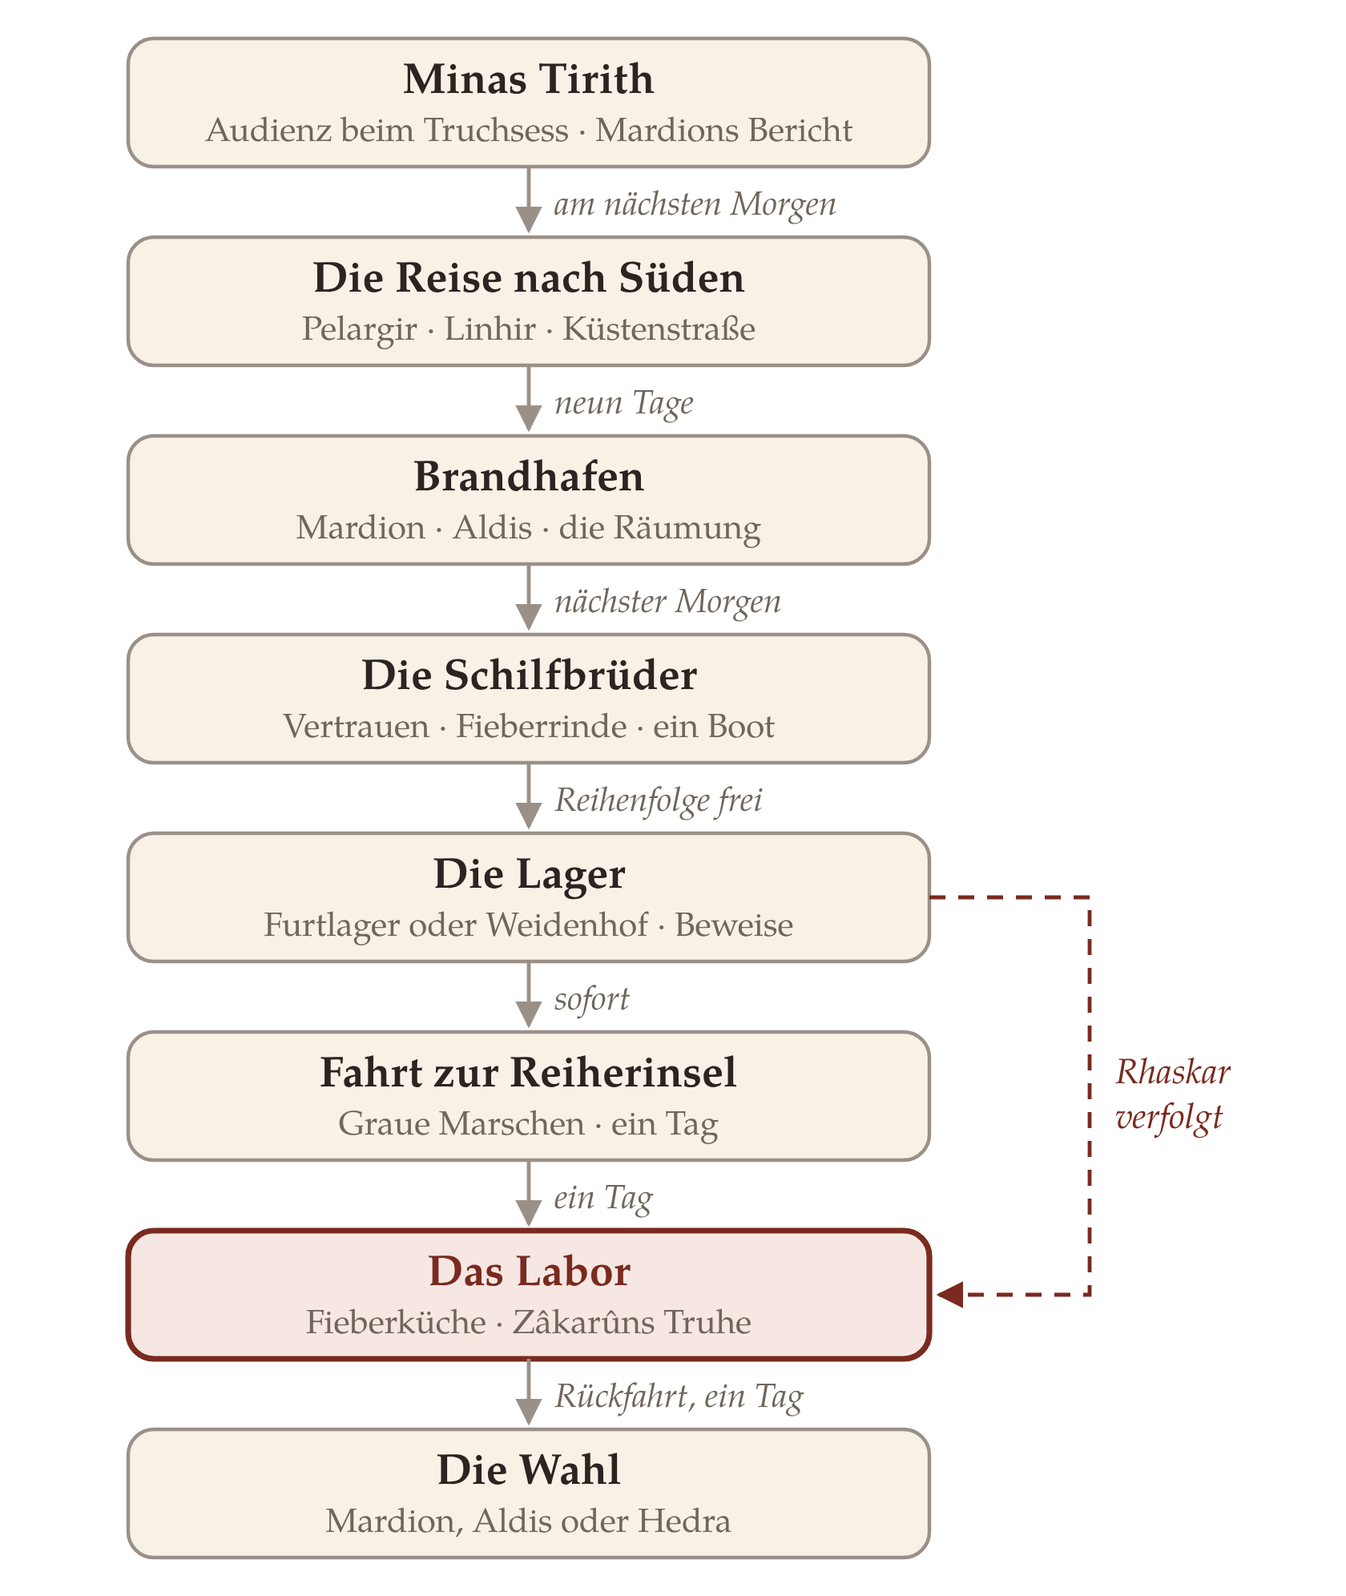
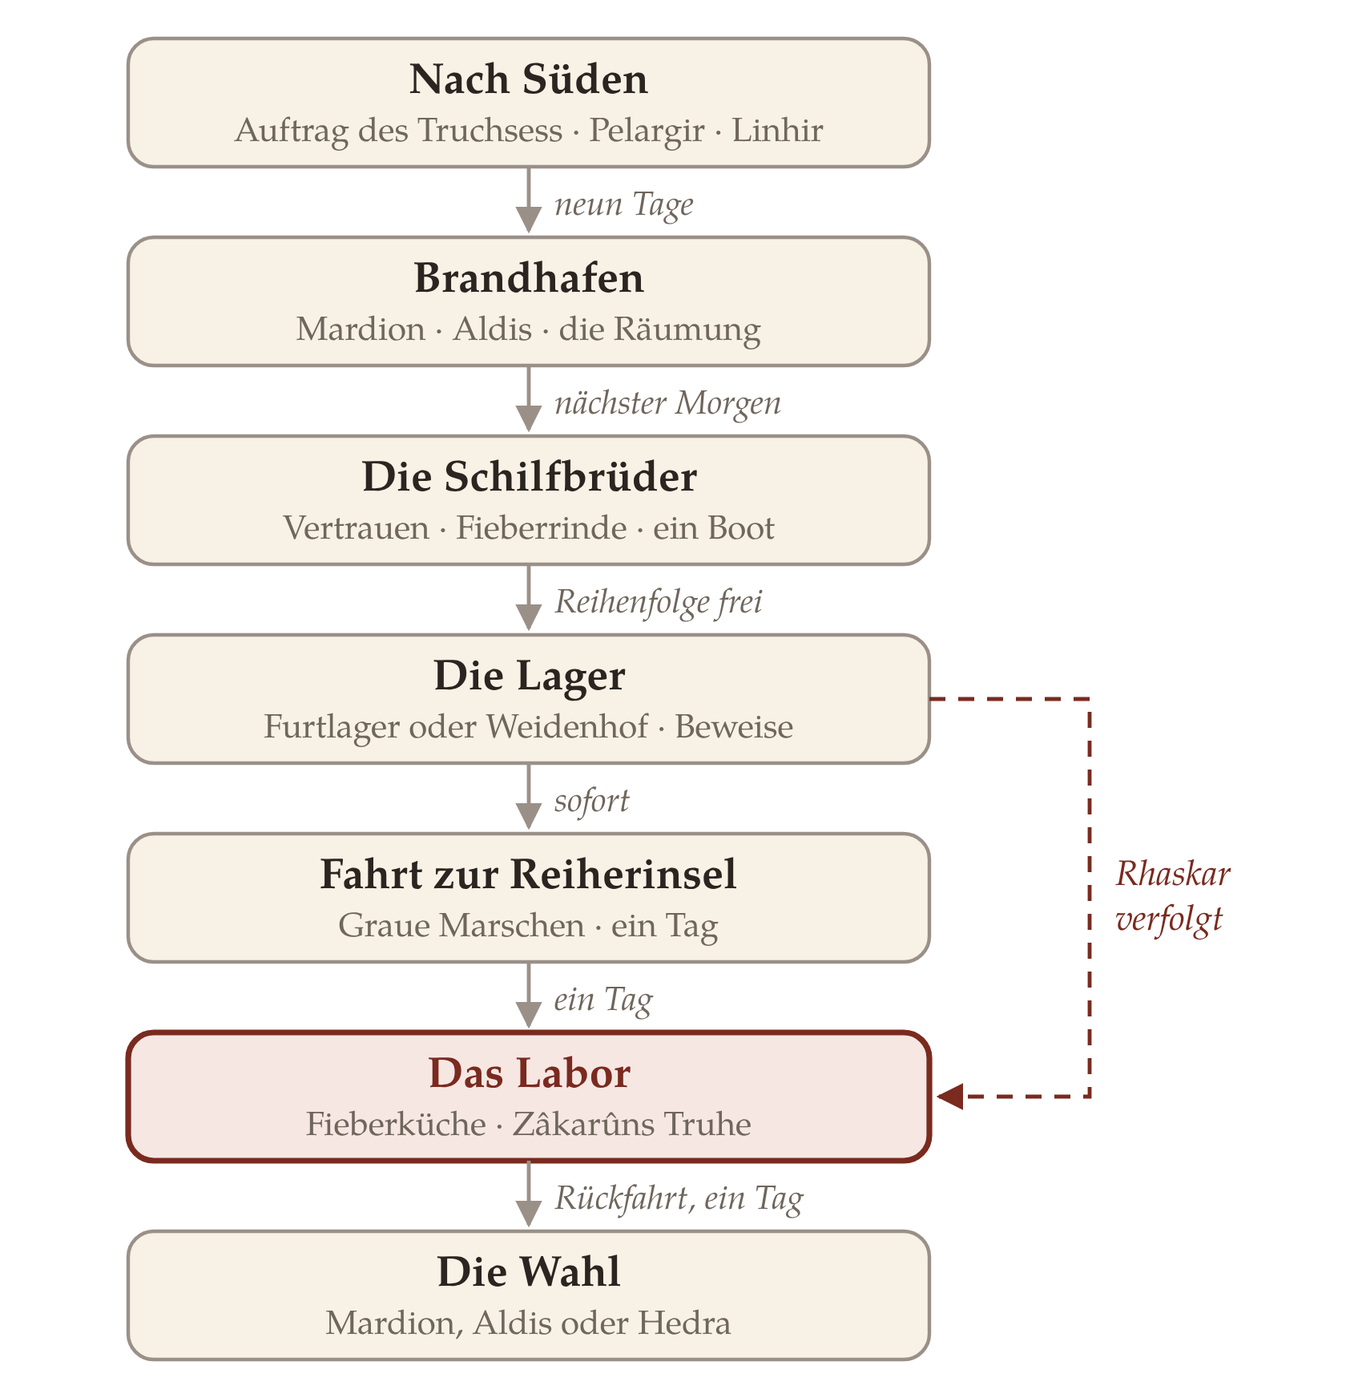
Kürzerer Einstieg: Auftrag in wenigen Sätzen, dann die Reise
Teil 1 „Nach Süden“ ersetzt Minas Tirith und die Reise: knappe
Zusammenfassung des Auftrags (Auftrag, warum Fremde, Lohn), Mardions
Bericht als Handout, dann Route und Reiseereignisse. Gerüchte, Audienz
und Ratsherr Galdrion entfallen. Teile 3–6 werden 2–5; Verweise,
Inhalt, Kalender, NSC-Tabelle und Routendiagramm angepasst.

Claude-Session: https://claude.ai/code/session_01QUw3fjkJSS1ByRS6nJY8XS

diff --git a/tools/maps.py b/tools/maps.py
@@ -375,15 +375,14 @@ def route():
     font = "font-family=\"TeX Gyre Pagella\""
     grey, line, red, ink = "#6f665c", "#9a9088", "#7a2a1f", "#2b2420"
     bw, bh, gap, x0, top = 250, 40, 22, 40, 12
-    stages = [("Minas Tirith", "Audienz beim Truchsess · Mardions Bericht"),
-              ("Die Reise nach Süden", "Pelargir · Linhir · Küstenstraße"),
+    stages = [("Nach Süden", "Auftrag des Truchsess · Pelargir · Linhir"),
               ("Brandhafen", "Mardion · Aldis · die Räumung"),
               ("Die Schilfbrüder", "Vertrauen · Fieberrinde · ein Boot"),
               ("Die Lager", "Furtlager oder Weidenhof · Beweise"),
               ("Fahrt zur Reiherinsel", "Graue Marschen · ein Tag"),
               ("Das Labor", "Fieberküche · Zâkarûns Truhe"),
               ("Die Wahl", "Mardion, Aldis oder Hedra")]
-    legs = ["am nächsten Morgen", "neun Tage", "nächster Morgen", "Reihenfolge frei", "sofort", "ein Tag", "Rückfahrt, ein Tag"]
+    legs = ["neun Tage", "nächster Morgen", "Reihenfolge frei", "sofort", "ein Tag", "Rückfahrt, ein Tag"]
     Hs = top * 2 + len(stages) * bh + (len(stages) - 1) * gap
     Ws = 420
     cx = x0 + bw / 2
@@ -404,7 +403,7 @@ def route():
             out.append(f'<path d="M{cx} {y + bh} V{y + bh + gap - 2}" stroke="{line}" stroke-width="1.2" marker-end="url(#a)"/>')
             out.append(f'<text x="{cx + 8}" y="{y + bh + gap / 2 + 4}" {font} font-style="italic" font-size="10.5" fill="{grey}">{legs[i]}</text>')
     # Verfolgung: von den Lagern zur Insel
-    y3, y5 = ys[4] + bh / 2, ys[6] + bh / 2
+    y3, y5 = ys[3] + bh / 2, ys[5] + bh / 2
     px = x0 + bw + 50
     out.append(f'<path d="M{x0 + bw} {y3} H{px} V{y5} H{x0 + bw + 3}" fill="none" stroke="{red}" stroke-width="1.2" stroke-dasharray="5 4" marker-end="url(#r)"/>')
     out.append(f'<text x="{px + 8}" y="{(y3 + y5) / 2 - 4}" {font} font-style="italic" font-size="11" fill="{red}">Rhaskar</text>')

diff --git a/src/graufieber.md b/src/graufieber.md
@@ -2,7 +2,7 @@
 
 Im Spätsommer TA 2979 geht in Brandhafen, einem kleinen Fischerdorf an der Küste von Belfalas, und in den Dörfern und Höfen ringsum ein Fieber um, gegen das kein Kraut hilft. Mit zwei Schiffen aus Pelargir kommen „Helfer“ des Handelshauses Saerlond. Sie bringen Korn als Gabe, einen beruhigenden Trank und bewaffnete Wachen, und bald gehören ihnen Hafen und Furt. In Minas Tirith hört man davon, und der Truchsess schickt Fremde, die niemand am Hof kennt: die Helden. Nach einer Reise nach Süden treffen sie in Brandhafen seinen Hauptmann Mardion. Sie finden heraus, dass hinter dem Haus ein Schwarzer Númenórer aus Umbar steht, der die Seuche selbst gesät hat, und zerstören seine Fieberküche auf der Reiherinsel. Am Ende halten sie das einzige Gegenmittel in der Hand, und drei Parteien wollen es.
 
-**Schauplatz:** Minas Tirith, die Straße nach Süden und vor allem Brandhafen an der Küste von Belfalas zwischen Dol Amroth und Linhir, mit den Grauen Marschen östlich davon.
+**Schauplatz:** Die Straße von Minas Tirith nach Süden und vor allem Brandhafen an der Küste von Belfalas zwischen Dol Amroth und Linhir, mit den Grauen Marschen östlich davon.
 
 **Stimmung:** Fieberschwüle, Salzwind, Misstrauen, Freundlichkeit als Maske. Es gibt keinen offenen Krieg, sondern Gift, Lügen und Schmuggel. Das Ende ist eine Wahl ohne saubere Lösung.
 
@@ -14,26 +14,25 @@ Im Spätsommer TA 2979 geht in Brandhafen, einem kleinen Fischerdorf an der Küs
 \noindent\begin{minipage}[t]{0.53\linewidth}\vspace{0pt}
 ```
 
-1. [**Minas Tirith**](#teil1) – Audienz beim Truchsess.
-2. [**Die Reise nach Süden**](#teil2) – neun Tage bis an die Küste.
-3. [**Brandhafen**](#teil3) – Mardion, Aldis, die Räumung.
-4. [**Die Schilfbrüder**](#teil4) – Vertrauen, Fieberrinde, ein Boot.
-5. [**Die Lager**](#teil5) – Beweise, verkleidet oder heimlich.
-6. [**Fahrt zur Reiherinsel**](#teil6) – ein Tag durch die Marschen.
-7. [**Das Labor**](#hoehepunkt) – Fieberküche und Zâkarûns Truhe.
-8. [**Die Wahl**](#wahl) – Mardion, Aldis oder Hedra.
+1. [**Nach Süden**](#teil1) – der Auftrag des Truchsess, neun Tage Reise.
+2. [**Brandhafen**](#teil2) – Mardion, Aldis, die Räumung.
+3. [**Die Schilfbrüder**](#teil3) – Vertrauen, Fieberrinde, ein Boot.
+4. [**Die Lager**](#teil4) – Beweise, verkleidet oder heimlich.
+5. [**Fahrt zur Reiherinsel**](#teil5) – ein Tag durch die Marschen.
+6. [**Das Labor**](#hoehepunkt) – Fieberküche und Zâkarûns Truhe.
+7. [**Die Wahl**](#wahl) – Mardion, Aldis oder Hedra.
 
 ```{=latex}
 \end{minipage}\hfill\begin{minipage}[t]{0.43\linewidth}\vspace{0pt}
 ```
 
-![Der Weg der Helden. Teil 4 und 5 sind in beliebiger Reihenfolge spielbar; gestrichelt: Rhaskars Verfolgung.](assets/route-de.png){.route}
+![Der Weg der Helden. Teil 3 und 4 sind in beliebiger Reihenfolge spielbar; gestrichelt: Rhaskars Verfolgung.](assets/route-de.png){.route}
 
 ```{=latex}
 \end{minipage}\par
 ```
 
-Teil 4 und 5 sind offen. Die Gruppe wählt Reihenfolge und Mittel. Zur Reiherinsel braucht sie zweierlei: den Ort (von Hedra, von Thalmir oder aus dem Kornbuch) und ein Boot (von Hedra oder von Tobbe).
+Teil 3 und 4 sind offen. Die Gruppe wählt Reihenfolge und Mittel. Zur Reiherinsel braucht sie zweierlei: den Ort (von Hedra, von Thalmir oder aus dem Kornbuch) und ein Boot (von Hedra oder von Tobbe).
 
 ## Hintergrund: Das Geschenk aus Umbar {#hintergrund .nonotes}
 
@@ -81,8 +80,7 @@ Hauptmann Mardion dient Ecthelion II., dem Truchsess von Gondor, als Auge an den
 
 | Tag | Datum | Wo | Was geschieht |
 |---|---|---|---|
-| 1 | 22. Wedmath | Minas Tirith | Kunde aus dem Süden, Audienz beim Truchsess. |
-| 2–9 | 23.–30. Wedmath | Lossarnach, Pelargir, Linhir | Die Reise nach Süden. |
+| 1–9 | 22.–30. Wedmath | Minas Tirith bis Linhir | Aufbruch und Reise nach Süden. |
 | 10 | 1. Halimath | Brandhafen | Ankunft an der Furt, Treffen mit Mardion, Aldis' Spital. Nachts: die Räumung. |
 | 11 | 2. Halimath | Rand der Marschen | Die Schilfbrüder, zwei Aufträge. |
 | 12 | 3. Halimath | Furtlager oder Weidenhof | Beweise. Danach nimmt Rhaskar die Verfolgung auf. |
@@ -92,27 +90,13 @@ Hauptmann Mardion dient Ecthelion II., dem Truchsess von Gondor, als Auge an den
 
 Der Kalender ist ein Vorschlag. Solange Aldis keine Fieberrinde hat, stirbt jeden Tag einer ihrer Kranken.
 
-## Teil 1: Minas Tirith {#teil1}
+## Teil 1: Nach Süden {#teil1}
 
-Im Spätsommer TA 2979 reden sie in den Schänken des ersten Rings von einer Seuche an der Küste von Belfalas. Die einen erzählen von grauen Toten, die anderen vom Haus Saerlond, das dort Korn und Heiler hinschickt und dafür am Hof gelobt wird. Am Ende von Teil 1 haben die Helden einen Auftrag des Truchsess und wissen, wen sie suchen sollen.
-
-### Kunde aus dem Süden
-
-Die Helden sind Fremde in Minas Tirith, aus welchem Grund auch immer. Ein Bote der Zitadelle findet sie in ihrer Herberge: Der Truchsess wünscht sie zu sprechen, heute noch und ohne Aufsehen. Gerüchte, die sie vorher hören können:
-
-1. „Im Süden sterben die Bauern, und die Leute aus Pelargir füttern sie durch. Gute Leute, die Saerlonds.“ (Wahr und falsch: Sie füttern, und sie vergiften.)
-2. „Das Fieber kommt aus den Marschen, das war schon immer so.“ (Falsch.)
-3. „Der Truchsess hört lieber auf Fremde als auf seinen eigenen Sohn.“ (Halb wahr: Ecthelion nimmt Fremde in Dienst, und Denethor sieht das nicht gern.)
-
-### Audienz beim Truchsess
-
-Ecthelion II. empfängt die Helden in einer kleinen Stube neben dem Turmsaal, nicht vor dem Hof. Er ist über neunzig, hager, und seine Augen sind wacher als die der meisten Jüngeren. Er legt ihnen Mardions Bericht vor (Handout) und sagt, was er will:
+Das Abenteuer beginnt auf der Straße. Die Helden haben ihren Auftrag schon: Ecthelion II., der Truchsess von Gondor, hat sie in Minas Tirith empfangen, ohne Aufsehen, in einer kleinen Stube neben dem Turmsaal. Fasse das Gespräch für die Spieler in wenigen Sätzen zusammen und gib ihnen Mardions Bericht (Handout):
 
 - **Der Auftrag:** nach Brandhafen reisen, Mardion finden, herausfinden, woher das Fieber kommt, und Beweise bringen, die im Rat bestehen.
 - **Warum Fremde:** „Das Haus Saerlond hat Freunde in diesem Turm. Jeden Hauptmann, den ich schicke, kennen sie, ehe er Pelargir erreicht. Euch kennt niemand.“
-- **Der Lohn:** Pferde, Silber für die Reise und ein Lohn nach der Rückkehr (*Treasure* nach deinem Ermessen). Einen Geleitbrief gibt er ihnen nicht mit: „Ein Siegel des Truchsess ist in Brandhafen ein Todesurteil.“
-
-Mit einem *Insight*-Wurf merken die Helden, dass Ecthelion mehr fürchtet als ein Fieber: Er spricht zweimal von Umbar, ohne dass jemand danach gefragt hat.
+- **Der Lohn:** Pferde, Silber für die Reise und ein Lohn nach der Rückkehr (*Treasure* nach deinem Ermessen). Einen Geleitbrief gibt es nicht: „Ein Siegel des Truchsess ist in Brandhafen ein Todesurteil.“
 
 ### Mardions Bericht (Handout)
 
@@ -121,19 +105,11 @@ Herr, in den Höfen um Brandhafen sterben die Leute an einem Fieber, das kein Kr
 [– M.]{.sig}
 :::
 
-### Ein Freund des Hauses (optional)
-
-Auf dem Weg aus der Zitadelle spricht sie Herr Galdrion an, ein Ratsherr mit sanfter Stimme und guten Verbindungen nach Pelargir. Er fragt freundlich, wohin die Reise geht. Ein *Insight*-Wurf zeigt, dass er die Antwort sehr genau hören will.
-
-Verraten die Helden ihr Ziel oder ihren Auftrag, kennt man sie in Brandhafen: Am Schlagbaum (Teil 3) sind ihre *Courtesy*-Würfe *ill-favoured*, und Rhaskar lässt sie vom ersten Tag an beobachten. Überspringbar
-
-## Teil 2: Die Reise nach Süden {#teil2}
+### Die Reise
 
 **Route:** Von Minas Tirith durch Lossarnach und über die Furten des Erui nach Pelargir, von dort westwärts nach Linhir am Gilrain und auf der Küstenstraße nach Brandhafen. Das sind rund 260 Meilen, zu Pferd etwa neun Tage. Die Lehen von Gondor zählen als *Border Land*. Wer schneller sein will, nimmt ein Flussschiff bis Pelargir und spart zwei Tage.
 
-Je weiter die Helden nach Süden kommen, desto mehr hören sie vom Fieber und vom Haus Saerlond. Wähle zwei oder drei Ereignisse aus der Liste.
-
-### Ereignisse
+Je weiter die Helden nach Süden kommen, desto mehr hören sie vom Fieber und vom Haus Saerlond, das überall gelobt wird. Wähle zwei oder drei Ereignisse aus der Liste.
 
 - **Die Koggen von Pelargir** (*Chance-meeting*): Am Kai liegt ein Schiff des Hauses Saerlond. Hafenarbeiter laden Säcke mit weißem Siegelwachs, das ein Schiff unter einem Stern zeigt. Gelingt ein *Scan*- oder *Courtesy*-Wurf, erfahren die Helden, dass das Schiff nach Brandhafen geht und das Korn aus einem Speicher des Hauses kommt, nicht vom Markt.
 - **Flüchtlinge auf der Straße** (*Despair*): Hinter Linhir kommt den Helden eine Familie entgegen, die vor dem Fieber flieht. Das jüngste Kind ist grau im Gesicht und friert in der Hitze. Ein *Healing*-Wurf; misslingt er, erhält jeder in der Gruppe 1 *Shadow*-Punkt (*Dread*). Gelingt er, erzählt die Mutter, dass das Fieber drei Wochen nach dem Korn der Helfer kam.
@@ -142,9 +118,9 @@ Je weiter die Helden nach Süden kommen, desto mehr hören sie vom Fieber und vo
 
 **Hinweis für den Loremaster:** Die Reise zeigt, dass das Haus Saerlond überall gelobt wird, wo es hinkommt. Die Helden sollen in Brandhafen ankommen und schon ahnen, dass Dankbarkeit die Waffe des Gegners ist.
 
-## Teil 3: Brandhafen {#teil3}
+## Teil 2: Brandhafen {#teil2}
 
-Brandhafen ist ein Fischerdorf wie viele an dieser Küste: etwa dreihundert Menschen, eine Mole, ein Dutzend Boote, Netze zum Trocknen zwischen den Häusern, ein Zollhaus an der Furt und der Stumpf eines alten Hafenturms. Kiesbucht im Westen und Möwenhaken im Osten sind kaum größer, und landeinwärts liegen verstreut die Höfe. Das Dorf lebt vom Fisch und vom Verkehr auf der Küstenstraße. In diesem Sommer liegen zwei fremde Koggen an der Mole, und es riecht nach Rauch, Tang und Essig. Die Helden kommen am 1. Halimath, müde von der Straße. Am Ende von Teil 3 kennen sie Mardions Verdacht, Aldis' Not und die Macht der Helfer.
+Brandhafen ist ein Fischerdorf wie viele an dieser Küste: etwa dreihundert Menschen, eine Mole, ein Dutzend Boote, Netze zum Trocknen zwischen den Häusern, ein Zollhaus an der Furt und der Stumpf eines alten Hafenturms. Kiesbucht im Westen und Möwenhaken im Osten sind kaum größer, und landeinwärts liegen verstreut die Höfe. Das Dorf lebt vom Fisch und vom Verkehr auf der Küstenstraße. In diesem Sommer liegen zwei fremde Koggen an der Mole, und es riecht nach Rauch, Tang und Essig. Die Helden kommen am 1. Halimath, müde von der Straße. Am Ende von Teil 2 kennen sie Mardions Verdacht, Aldis' Not und die Macht der Helfer.
 
 ### An der Furt
 
@@ -193,7 +169,7 @@ Danach ist Aldis eine Geächtete, und die Helden sind verdächtig.
 5. „Der Weiße Trank heilt nicht, er macht nur ruhig.“ (Wahr.)
 6. „Am Weidenhof haben sie einen Späher aus Minas Tirith gehenkt.“ (Falsch: Thalmir lebt, im Keller des Weidenhofs.)
 
-## Teil 4: Die Schilfbrüder {#teil4}
+## Teil 3: Die Schilfbrüder {#teil3}
 
 Aldis braucht Fieberrinde, und die Helden brauchen jemanden, der die Grauen Marschen kennt. Beides haben nur die Schilfbrüder. Den Weg zu ihnen kennt Tobbe, der alte Fährmann, der seine weiße Binde nur trägt, um sein Boot zu behalten. Er bringt die Helden im Morgennebel zur Schwanenwehr, einem halb versunkenen Wehr am Rand der Lagune.
 
@@ -206,7 +182,7 @@ Hedra hat einen verstümmelten Daumen, ein gutes Gedächtnis und keine Geduld. S
 - Das Vertrauen beginnt bei 0. Jeder erfüllte Auftrag gibt +1. Eine Lüge, die Hedra durchschaut, oder ein Verrat an die Helfer gibt −1.
 - Bei 1 nennt Hedra die Reiherinsel: „Dorthin fahren die Boote ohne Licht.“
 - Bei 2 liefert sie Fieberrinde für Aldis, genug bis zum Ende des Abenteuers; von da an stirbt keiner ihrer Kranken mehr.
-- Bei 3 stellt sie ein Boot und einen Lotsen für die Marschen (Teil 6).
+- Bei 3 stellt sie ein Boot und einen Lotsen für die Marschen (Teil 5).
 
 Wer die Hausregel nicht möchte, lässt Hedra nach zwei erfolgreichen Aufträgen einfach alles herausgeben.
 
@@ -220,21 +196,21 @@ Hedra bietet drei Aufträge an. Für einen One-Shot reichen zwei.
 
 **Erinnerung für den Loremaster – Verkleidung:** Die weißen Binden der Helfer lassen sich stehlen oder von Tobbe borgen. Wer eine trägt, kommt mit einem *Courtesy*-Wurf an Posten vorbei, mit einer *Riddle*-Lüge auch durch Nachfragen. Zwerge, Elben und Hobbits fallen unter den Seeleuten auf: Ihre Würfe sind *ill-favoured*. Wird ein Verkleideter erkannt, schlägt der Posten Alarm.
 
-**Wenn sie trotzdem gehen:** Verweigern die Helden Hedra jeden Dienst, finden sie die Reiherinsel über das Kornbuch oder Thalmir (Teil 5) und fahren mit Tobbes Kahn, ohne Lotsen.
+**Wenn sie trotzdem gehen:** Verweigern die Helden Hedra jeden Dienst, finden sie die Reiherinsel über das Kornbuch oder Thalmir (Teil 4) und fahren mit Tobbes Kahn, ohne Lotsen.
 
 ### Die Insel der Reiher (optional)
 
 Ist das Vertrauen hoch, erzählt Hedra am Feuer von dem Turm, den ihre Großmutter mied. Dort sollen die Wächter der Könige an einer Seuche gestorben sein, als die Korsaren zum ersten Mal kamen. Seit zwei Jahren brennt nachts Licht darin, und kein Reiher nistet mehr dort. Überspringbar
 
-## Teil 5: Die Lager {#teil5}
+## Teil 4: Die Lager {#teil4}
 
-Mardion braucht einen Beweis, der Umbar nennt. Es gibt zwei Orte, an denen die Helden ihn finden können. Für einen One-Shot reicht einer; das Furtlager ist schneller, der Weidenhof ergiebiger. Sobald die Helden mit Beweisen entkommen, nimmt Rhaskar die Verfolgung auf (Teil 6).
+Mardion braucht einen Beweis, der Umbar nennt. Es gibt zwei Orte, an denen die Helden ihn finden können. Für einen One-Shot reicht einer; das Furtlager ist schneller, der Weidenhof ergiebiger. Sobald die Helden mit Beweisen entkommen, nimmt Rhaskar die Verfolgung auf (Teil 5).
 
 ### Das Furtlager
 
 Am Ostufer des Brandbachs stehen dreißig Zelte, ein Pferch für „Genesende“ und Rhaskars Zelt mit der Kasse. Tagsüber laufen hier Kranke, Helfer und Bittsteller durcheinander. Nachts ist es still und bewacht.
 
-- **Hineinkommen:** In Verkleidung mit einem *Courtesy*-Wurf (siehe Teil 4), als Kranke getarnt mit einem *Riddle*-Wurf, oder nachts mit *Stealth*.
+- **Hineinkommen:** In Verkleidung mit einem *Courtesy*-Wurf (siehe Teil 3), als Kranke getarnt mit einem *Riddle*-Wurf, oder nachts mit *Stealth*.
 - **Rhaskars Zelt:** Ein *Scan* findet das Kornbuch. Es listet siebzehn Höfe mit dem Tag der Korngabe, und in einer zweiten Spalte steht bei vierzehn von ihnen „befallen“. Das ist ein Beweis für Absicht, aber nicht für Umbar. Eine dritte Spalte führt die Lieferungen „vom Turm“. Tobbe oder Hedra wissen, welcher Turm gemeint ist: der alte Reiherturm in den Marschen.
 - **Aldis' Kranke:** Wurden bei der Räumung Kranke verschleppt, liegen sie hier im Pferch. Sie zu befreien kostet Zeit und löst fast sicher Alarm aus.
 
@@ -262,7 +238,7 @@ Der Kornweg wirkt, wie wir es vorhergesagt haben. Siebzehn Höfe, vierzehn befal
 
 **Hinweis für den Loremaster:** Der Bericht ist der Beweis, den Mardion sucht. Er ist allerdings nur ein Entwurf, ungesiegelt und nur mit einem Buchstaben gezeichnet. Mardion sagt: „Das reicht, damit ich es glaube. Saerlonds Freunde im Rat nennen es eine Fälschung. Ich brauche das Mittel selbst: einen Trank, der genau dieses Fieber heilt, unter Umbars Siegel.“ So bleibt die Truhe auf der Reiherinsel der Kern der Wahl.
 
-## Teil 6: Fahrt zur Reiherinsel {#teil6}
+## Teil 5: Fahrt zur Reiherinsel {#teil5}
 
 **Route:** Von Brandhafen mit dem Boot durch die Lagune der Grauen Marschen nach Osten, etwa 20 Meilen durch Schilf und Priele, ein Tag. Die Marschen zählen als *Wild Land*. Mit Hedras Lotsen (Vertrauen 3) wählst du zwei Ereignisse aus der Liste. Ohne Lotsen kommt „Verirrt im Schilf“ dazu.
 
@@ -375,13 +351,12 @@ Welches Ende es auch wird: Umbar verliert eine Küche, aber nicht sein Interesse
 
 | Name | Wer sie sind | Erstes Treffen | Was sie wollen | Wie man sie spielt |
 |---|---|---|---|---|
-| Ecthelion II. | Truchsess von Gondor, über neunzig | Zitadelle, Teil 1 | Umbar in die Schranken weisen, ohne den Rat zu spalten | Leise, scharfsinnig, ungeduldig mit Schmeichlern |
-| Herr Galdrion | Ratsherr, Freund des Hauses Saerlond | Zitadelle, Teil 1 (optional) | Wissen, wer nach Süden reist | Sanft, neugierig, immer gut unterrichtet |
-| Mardion | Hauptmann des Truchsess, Auge an den Küsten | Hafenturm, Teil 3 | Einen Beweis gegen Umbar, um jeden Preis | Leise, knapp, lächelt nie; füttert Möwen; rechnet in Leben |
-| Aldis | Kräuterfrau, führt das Spital im alten Zollhaus | Spital, Teil 3 | Ihre Kranken retten, alle | Müde, scharfzüngig, furchtlos; wischt sich ständig die Hände |
-| Hedra Schilfhand | Anführerin der Schilfbrüder | Schwanenwehr, Teil 4 | Den Hafen zurück und ihren Schnitt am Handel | Misstrauisch, direkt; spielt mit dem verstümmelten Daumen |
+| Ecthelion II. | Truchsess von Gondor, über neunzig | Vorgeschichte, Teil 1 | Umbar in die Schranken weisen, ohne den Rat zu spalten | Leise, scharfsinnig, ungeduldig mit Schmeichlern |
+| Mardion | Hauptmann des Truchsess, Auge an den Küsten | Hafenturm, Teil 2 | Einen Beweis gegen Umbar, um jeden Preis | Leise, knapp, lächelt nie; füttert Möwen; rechnet in Leben |
+| Aldis | Kräuterfrau, führt das Spital im alten Zollhaus | Spital, Teil 2 | Ihre Kranken retten, alle | Müde, scharfzüngig, furchtlos; wischt sich ständig die Hände |
+| Hedra Schilfhand | Anführerin der Schilfbrüder | Schwanenwehr, Teil 3 | Den Hafen zurück und ihren Schnitt am Handel | Misstrauisch, direkt; spielt mit dem verstümmelten Daumen |
 | Zâkarûn („Meister Saerlond“) | Schwarzer Númenórer aus Umbar, Kopf des Hauses Saerlond | Furt (von fern) oder Reiherinsel | Die Küste für Umbar öffnen | Warm, geduldig, saubere Hände; redet von Güte und altem Blut |
-| Kapitän Rhaskar | Korsar, führt die Bewaffneten der Helfer | Die Räumung, Teil 3 | Beute, Sold, Rache für jede Demütigung | Laut, dann plötzlich still; merkt sich Gesichter |
-| Tobbe | Alter Fährmann mit weißer Binde | Furt, Teil 3 | Sein Boot behalten und überleben | Redselig, ängstlich, ehrlich, wenn niemand zuhört |
-| Thalmir | Mardions Späher, Gefangener im Weidenhof | Keller, Teil 5 | Leben, und Mardion nicht enttäuschen | Fiebrig, stolz, dankbar; zweifelt leise an Mardion |
-| Merrick | Apotheker aus Pelargir, Zâkarûns Gehilfe | Weidenhof, Teil 5 | Seine Notizen retten | Nervös, pedantisch, feige |
+| Kapitän Rhaskar | Korsar, führt die Bewaffneten der Helfer | Die Räumung, Teil 2 | Beute, Sold, Rache für jede Demütigung | Laut, dann plötzlich still; merkt sich Gesichter |
+| Tobbe | Alter Fährmann mit weißer Binde | Furt, Teil 2 | Sein Boot behalten und überleben | Redselig, ängstlich, ehrlich, wenn niemand zuhört |
+| Thalmir | Mardions Späher, Gefangener im Weidenhof | Keller, Teil 4 | Leben, und Mardion nicht enttäuschen | Fiebrig, stolz, dankbar; zweifelt leise an Mardion |
+| Merrick | Apotheker aus Pelargir, Zâkarûns Gehilfe | Weidenhof, Teil 4 | Seine Notizen retten | Nervös, pedantisch, feige |
